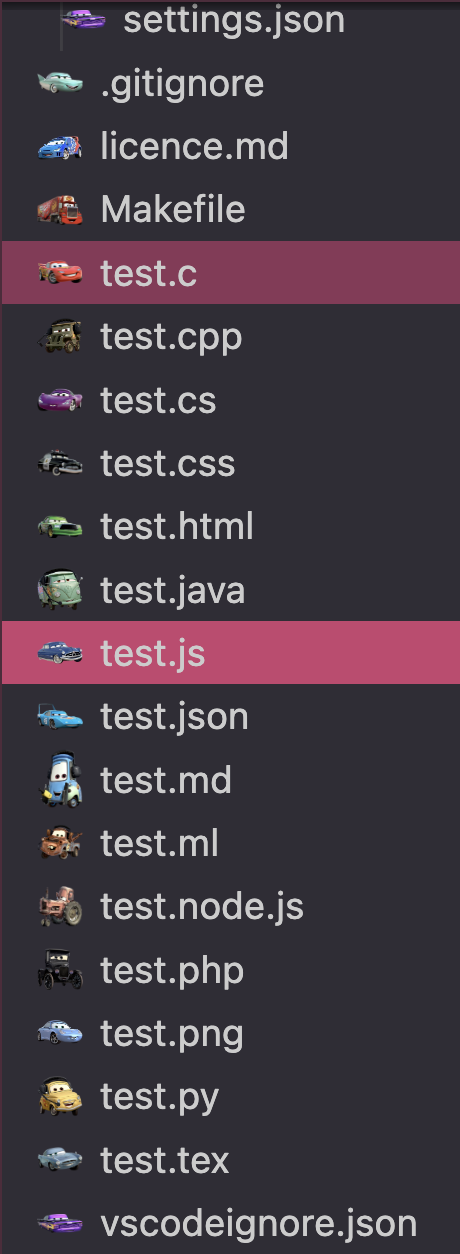
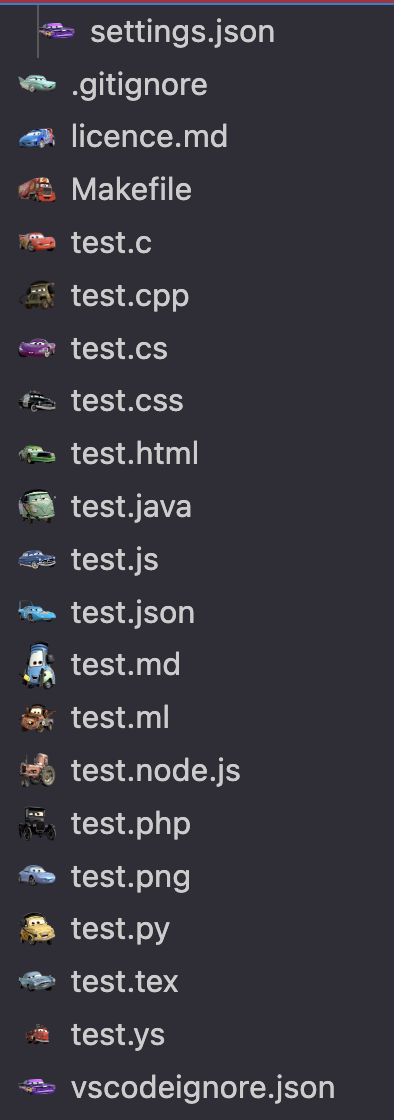
update readme

Changed region(s): [[0.0, 0.0, 1.0, 1.0]]

diff --git a/README.md b/README.md
@@ -6,7 +6,7 @@ Icon theme made for the languages used in my compsci classes.
 
 ## Languages supported
 
-For now, the supported languages are C, C++, C#, Java, Ocaml, Python, HTML, CSS, Javascript, Php, JSON, Markdown et LaTeX.
+For now, the supported languages are C, C++, C#, Java, Ocaml, Python, Y86, HTML, CSS, Javascript, Php, JSON, Markdown et LaTeX.
 
 <img width="150" alt="Screen Shot 2023-02_15" src="overview.png">
 
